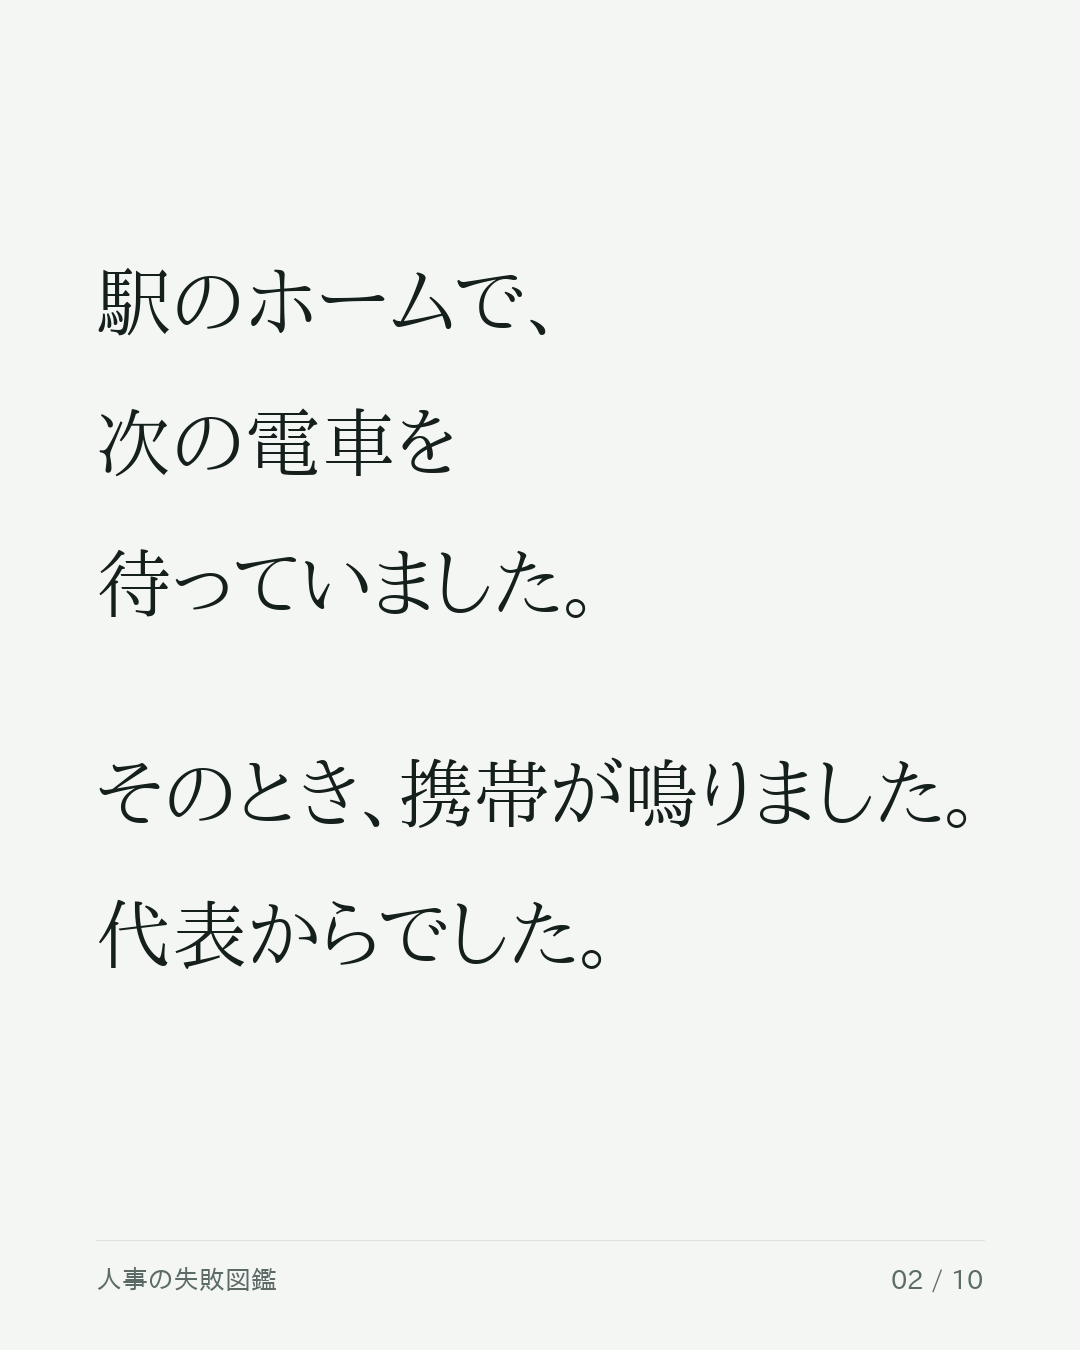
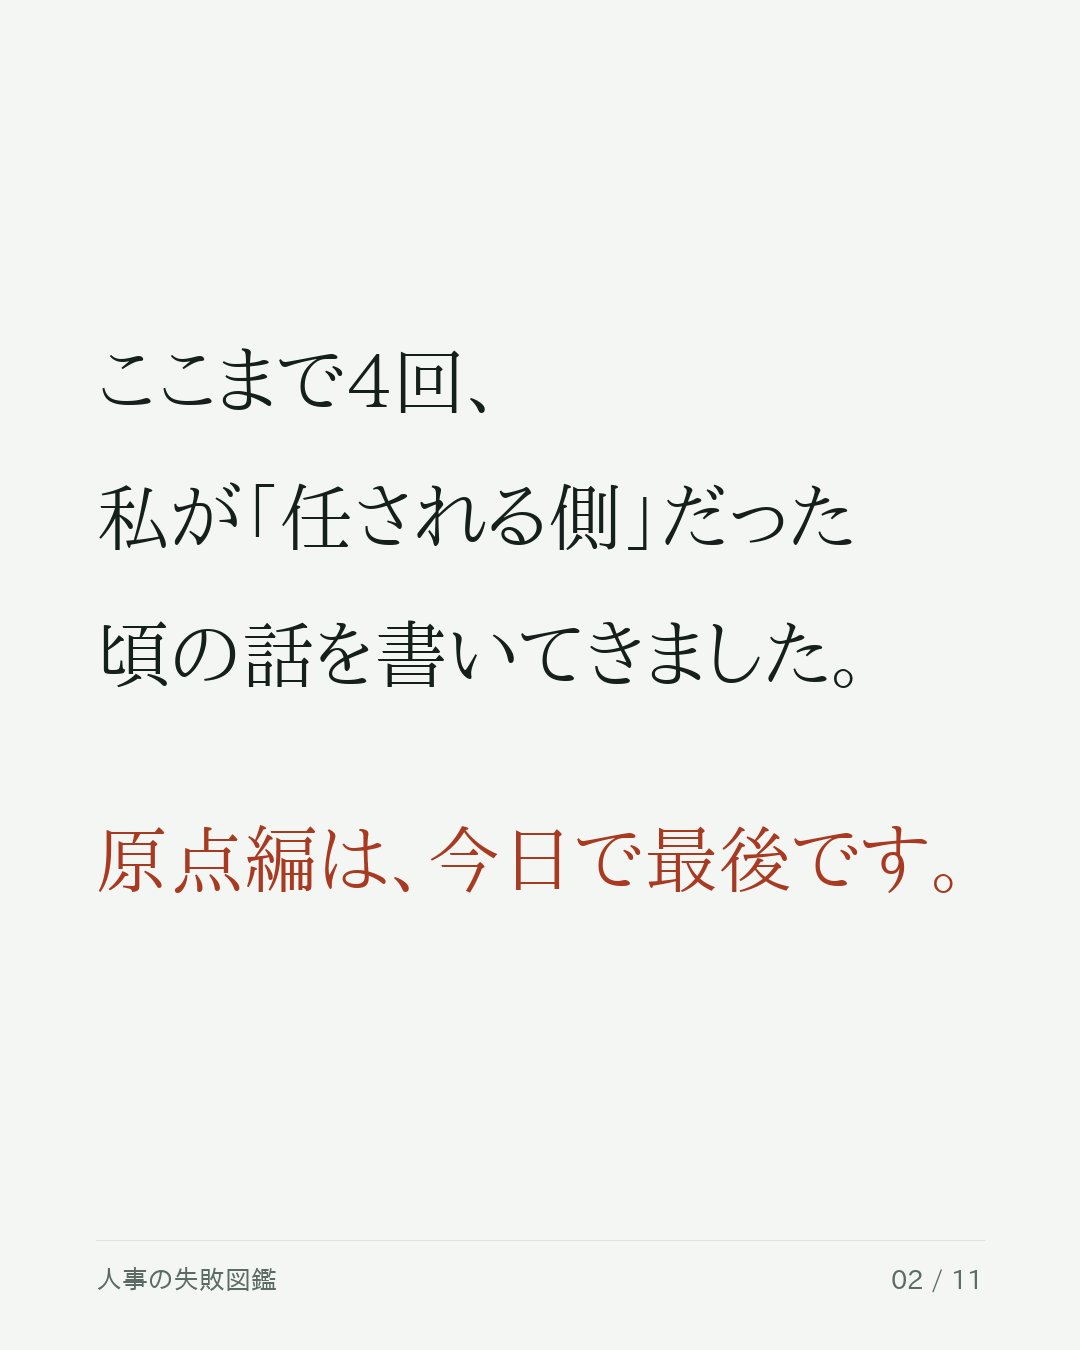
01(9/29)のカルーセルを書き直し版に差し替え、引き継ぎ資料を追加
slides/01.txt が書き直し前の「電話」版のまま残っていた。第0回・
自己紹介記事と場面が重複する、まさに直したはずの状態だったため、
本文「私は、空いた穴でした」に合わせて全面的に作り直した（11枚）。
2枚目に橋渡しを入れ、「原点編は、今日で最後です」を明示している。

- distribution.md に01(9/29)節を追加。Instagramキャプションと、
  X/Threadsを再開するときの当てはめ方を記載
- launch-kit.md のカレンダーを9/29時点に更新
- HANDOFF.md を新規作成。連載の現在地、毎週の作業、外せないルール、
  未決事項、ファイルの地図をまとめ、別セッションに渡してもそのまま
  続けられるようにした。画像生成に必要な Pillow と IPAフォントの
  導入手順も記載（環境が作り直されると消えるため）

Claude-Session: https://claude.ai/code/session_01XEr1Uw4MxwHT9PHVSMYHc7

diff --git a/note/HANDOFF.md b/note/HANDOFF.md
@@ -1,0 +1,142 @@
+# 引き継ぎ（Claude Cowork 向け）
+
+2026年9月29日時点。**このファイルを最初に読んでください。** そのあと `README.md` に進みます。
+
+---
+
+## 0. 最初に貼る文章（Cowork の1通目にそのままコピペ）
+
+```
+訪問看護ステーションの人事副社長の三井斗真です。
+代表と一緒に、note で「人事の失敗図鑑」という連載をやっています。
+著者名義は「元管理者Ns」です。
+
+連載の設計・原案・画像生成スクリプトは、GitHub の touma リポジトリ、
+ブランチ claude/mitsui-toshima-failure-hr-v39oyx の note/ 以下に全部あります。
+https://github.com/0uc40d1838f209r-star/touma/tree/claude/mitsui-toshima-failure-hr-v39oyx/note
+
+まず note/HANDOFF.md を読んでください。連載の現在地と、毎週やることが書いてあります。
+そのあと README.md、writing-style.md、guardrails.md の3つに目を通してください。
+
+毎週火曜が公開日です。私がやってほしいのは、
+その週の記事の「note 貼り付け用テキスト」「整形メモ」「Instagram カルーセル画像」
+「Instagram キャプション」を揃えてもらうことです。
+```
+
+**Cowork がこのリポジトリを読めない場合**、`note/` ディレクトリごと ZIP で渡すか、
+最低でも `HANDOFF.md` `README.md` `writing-style.md` `guardrails.md` `article-template.md` の5本を渡してください。この5本があれば同じ品質で書けます。
+
+---
+
+## 1. 連載の現在地
+
+| 日付 | 記事 | 状態 |
+| --- | --- | --- |
+| 9/1 | 第0回 この図鑑には、私の失敗しか載っていません | 公開済み |
+| 9/8 | 02 毎日、怒られていました | 公開済み |
+| 9/15 | 03 なぜ、みんな私に聞きに来たのか | 公開済み |
+| 9/22 | 04 引き出しの中の、賞与の紙 | 素材お渡し済み |
+| **9/29** | **01 私は、空いた穴でした** | **今日。素材あり。原点編の最終回** |
+| 10/6 | 実務回（面接で必ず聞く3つの質問 など） | **未執筆。いちばん急ぎ** |
+| 10/13 | 05 気づいたら、事業所が二つに割れていた | 原案あり |
+| 10/20 | 06「なぜ出すんですか」と、私は最後まで聞かなかった | 原案あり |
+
+**連載は2部構成です。** 9/29 までが「私が任される側だった頃」（原点編）。
+10/13 の 05 から「任された立場で、私が人にしたこと」に変わります。ここが連載のいちばん大きな切り替わりです。
+
+## 2. 何よりも先に：10/6 の実務回
+
+**これが埋まらないと、連載が「反省はするが何も変えていない会社」に見えます。**
+
+5本続けて失敗談を出してきたので、次は**仕組みを出す回**が要ります。
+`README.md` の「『何を変えたか』は、別の回に分ける」に、3本に1本は実務回を挟むと書いてあります。
+
+書くために必要なのは、**三井さんが面接で実際に聞いている質問**です。きれいな建前ではなく、本当に聞いているものを3つ。
+Cowork には、まずこれを聞いてもらってください。素材さえあれば1時間で書けます。
+
+## 3. 毎週の作業（火曜の朝）
+
+1. `drafts/` の該当回を開く
+2. `python3 note/make_note_text.py` → `note-paste/` に貼り付け用テキストと整形メモが出る
+3. `python3 note/instagram/make_carousel.py note/instagram/slides/<回>.txt` → カルーセルと note 見出し画像が出る
+4. `distribution.md` の該当節から Instagram キャプションを取る
+5. note に貼って整形 → マガジン「人事の失敗図鑑」に追加 → ハッシュタグ → 公開
+6. 当日の夜に Instagram
+
+所要は1時間半くらいです。手順の詳細は `operations.md`。
+
+### 環境の準備（新しい環境で1回だけ）
+
+画像生成には Pillow と IPA フォントが要ります。
+
+```
+pip install Pillow
+apt-get install -y fonts-ipafont-mincho fonts-ipafont-gothic
+```
+
+## 4. 絶対に外してはいけないルール
+
+`guardrails.md` と `writing-style.md` に全部書いてありますが、要点だけ。
+
+**書いてはいけないもの**（`guardrails.md`）
+- 利用者・ご家族のことは、いかなる形でも書かない
+- 元従業員・在籍者が特定される情報を書かない（資格・年齢・性別・前職・入社退職時期・拠点名・担当エリア・家族構成は、**2つ組み合わせると特定されます**）
+- 相手の人格を評価しない。主語は常に自分の判断
+
+**書き方**（`writing-style.md`）
+- 冒頭は3段：**橋渡し → 失敗の一行 → 場面**。合わせて5行以内
+- 1本1,000〜1,500字。turn はひとつだけ
+- 毎回、人事の話に着地させる。苦労話で終わらせない
+- AI感を消す8つの癖（「〜ではないでしょうか」禁止、抽象名詞は動詞に、感情語は行動に、など）
+
+**この連載の目的は採用です。** 応募数ではなく「入ってから辞めない人が応募してくる」状態をつくること。
+裏テーマは「うちは選考で嘘をつかない」ことの証明です。自罰的な反省文で終わる記事は、目的を達成しません。
+
+## 5. まだ決まっていないこと
+
+Cowork に引き継いだら、これを順番に片付けてください。
+
+| 回 | 決めること |
+| --- | --- |
+| 04 | 締めを A/B/C から選ぶ（A=まだ一枚も書いていない ← 推奨／B=書いてはいるが同じものになっていない ← 現行／C=書いていて意識していることがある） |
+| 04 | 「もうひとりの方」（賞与の紙を書くもう1人の役員）に一言伝える。実名を出すかどうか |
+| 01 | 「私は、空いた穴でした」を出すことへの、代表との合意 |
+| 01 | 代表コメント3行（「なぜあの電話一本で決めたのか」）。これがあると、無茶な会社の話ではなく腹を括った会社の話になります |
+| 05 | 「うまく喋れなかった」の解像度。リハビリ責任者が在籍中なら、公開前に本人に見せる |
+| 06 | 代表コメントが主役の回。事前に代表と話す |
+| 全体 | 応募フォームの「当社を知ったきっかけ」欄と、初回面談の「note は読みましたか」。**この2つがないと連載が効いているか永久に分かりません** |
+
+## 6. 配信先
+
+**note と Instagram だけです。** X と Threads は2026年9月に一時停止しました。
+`distribution.md` と `launch-kit.md` に X/Threads の原稿が残っていますが、再開用の保管です。今は使いません。
+
+## 7. ファイルの地図
+
+| ファイル | 中身 |
+| --- | --- |
+| `HANDOFF.md` | これ |
+| `README.md` | 連載の目的・型・運用ルール |
+| `writing-style.md` | **書き上げたら必ず通す。**ミステリーとして書く型と、AI感の消し方 |
+| `guardrails.md` | **公開前に必ず読む。**書いてはいけないことの一覧 |
+| `article-template.md` | 短編コラムのテンプレート |
+| `operations.md` | 毎週の運用手順 |
+| `note-setup.md` | note をゼロから使う人向け |
+| `launch-kit.md` | 配信カレンダー |
+| `distribution.md` | 媒体別の原稿とキャプション |
+| `profile-texts.md` | 各SNSのプロフィール欄（note は140字まで） |
+| `series-plan.md` | 企画表 |
+| `failure-inventory.md` | **ネタが尽きたらここを開く** |
+| `swipe-file.md` | 参考記事の分析。輸入する型と、輸入しないもの |
+| `drafts/` | 原案7本＋自己紹介記事 |
+| `note-paste/` | note 貼り付け用テキストと整形メモ（生成物） |
+| `instagram/slides/` | カルーセルの原稿。**ここを直して再生成します** |
+| `instagram/out/` | 生成されたカルーセル画像と note 見出し画像 |
+| `assets/logo.jpg` | マガジンのロゴ |
+
+## 8. 連載を止めないための、たったひとつのルール
+
+**常に2本先まで書き溜める。**
+
+発信が続かない理由の9割はネタ切れではなく、その週に書く時間がなかったことです。
+いま原案は7本あり、足りないのは 10/6 の実務回だけ。**この状態を維持してください。** 1本でも切らすと、そこで止まります。

diff --git a/note/distribution.md b/note/distribution.md
@@ -276,7 +276,7 @@ X の運用で決めたルール（`swipe-file.md`）は、Instagram でも Thre
 
 ---
 
-## 8. 01（9/8）以降
+## 8. 02 以降の変換の考え方
 
 同じ変換を繰り返すだけです。コラム本体の
 
@@ -478,3 +478,64 @@ X の運用で決めたルール（`swipe-file.md`）は、Instagram でも Thre
 
 #訪問看護 #看護師 #人事 #採用 #組織づくり #マネジメント
 ```
+
+---
+
+## 12. 01（9/29）の各媒体版
+
+**原点編の最終回です。** 次の回から「任せる側」の話に変わります。
+
+### note
+`drafts/01-denwa.md` ／ 貼り付け用は `note-paste/01-denwa.txt`
+**ハッシュタグの5つ目は `#マネジメント`。**
+
+### Instagram（カルーセル11枚）
+
+画像は `instagram/out/01/01〜11.png`。**2枚目が橋渡しスライドで、「原点編は、今日で最後です」が入っています。**
+
+**キャプション**
+
+```
+ここまで4回、私が「任される側」だった頃の話を書いてきました。
+原点編は、今日で最後です。
+
+最初の記事に、電話一本で管理者になったと書きました。
+
+あの電話には、続きがあります。
+
+私はもともと、訪問看護のスタッフとして入る予定でした。
+管理者をやる予定だった人が、急に辞退したんです。
+
+だから、あの電話がかかってきました。
+
+つまり私は、空いた穴です。
+
+当時、そんなふうには考えていませんでした。
+考える時間がなかったからです。
+
+自分が何を埋めるために置かれたのかを考えたのは、ずいぶんあとになってからです。
+
+いま、私は人を採って、人を任せる側にいます。
+つまり、あの電話をかける側に回りました。
+
+だから、聞く前に自分に確かめるようにしています。
+
+この人に任せる理由を、私は言葉にできるか。
+その理由を、本人にも、周りにも、説明できるか。
+うまくいかなかったときに支える手を、先に用意してあるか。
+
+24歳の私には、そのどれもありませんでした。
+電話一本と、「やります」という返事だけでした。
+
+穴を埋めるために人を置くこと自体が悪いとは思っていません。
+問題は、置いたあとに何を渡すかです。
+
+そして正直に言うと、今もまだ、全部は渡せていません。
+
+全文はプロフィールのリンクから。
+
+#訪問看護 #看護師 #人事 #採用 #マネジメント #組織づくり
+```
+
+### X / Threads ── 一時停止中
+再開するときは、場面（「あの電話には、続きがあります」）を投稿1、turn（「あの電話をかける側に回りました」）を投稿2に当てはめてください。

diff --git a/note/launch-kit.md b/note/launch-kit.md
@@ -14,8 +14,8 @@
 | ~~9/1（火）~~ | ~~第0回 この図鑑には、私の失敗しか載っていません~~ | 約1,100字 | **公開済み** |
 | ~~9/8（火）~~ | ~~02 毎日、怒られていました~~ | 約740字 | **公開済み** |
 | ~~9/15（火）~~ | ~~03 なぜ、みんな私に聞きに来たのか~~ | 約1,150字 | **公開済み** |
-| **9/22（火）** | **04 引き出しの中の、賞与の紙** | 約840字 | 受け取る側だった私が、渡す側になって渡せていない |
-| 9/29（火） | 01 私は、空いた穴でした | 約730字 | 穴を埋められる側だった人間が、今は穴に人を置く側にいる |
+| ~~9/22（火）~~ | ~~04 引き出しの中の、賞与の紙~~ | 約840字 | **素材お渡し済み** |
+| **9/29（火）** | **01 私は、空いた穴でした** | 約730字 | **今日。原点編の最終回。**穴を埋められる側だった人間が、今は穴に人を置く側にいる |
 | 10/6（火） | **実務回**（面接で必ず聞く3つの質問 など） | 約1,000字 | **「変えている会社」だと示す回。**まだ未執筆 |
 | 10/13（火） | 05 気づいたら、事業所が二つに割れていた | 約1,050字 | 溝は私が話さなかったから空いた |
 | 10/20（火） | 06 「なぜ出すんですか」と、私は最後まで聞かなかった | 約1,160字 | 代表コメントが主役 |
@@ -30,7 +30,7 @@
 - **第0回だけ（推奨）** — 末尾で 01 を予告しているので引っ張れます。火曜固定のリズムも崩れません
 - **第0回＋01 を同日** — 宣言だけで終わらないので立ち上がりは強い。ただし X の導線が1日に2本分になり、片方が埋もれます
 
-**10/6 の実務回だけ、まだ書けていません。** 9月中に用意してください。
+**10/6 の実務回だけ、まだ書けていません。** 来週の公開ぶんです。**いちばん急ぎます。**
 ここが埋まらないと「反省はするが何も変えない会社」に見えます（`series-plan.md` 参照）。
 
 ---

diff --git a/note/README.md b/note/README.md
@@ -15,6 +15,7 @@
 
 | ファイル | 用途 |
 | --- | --- |
+| `HANDOFF.md` | **引き継ぎ用。別のセッションや人に渡すときは、これを最初に読ませる** |
 | `README.md` | 連載の目的・型・運用ルール（この文書） |
 | `note-setup.md` | **ゼロから始める人向け。** アカウント作成〜自己紹介〜第0回の公開まで |
 | `operations.md` | **毎週の運用手順書。** note への貼り方から各SNSへの連結まで |
